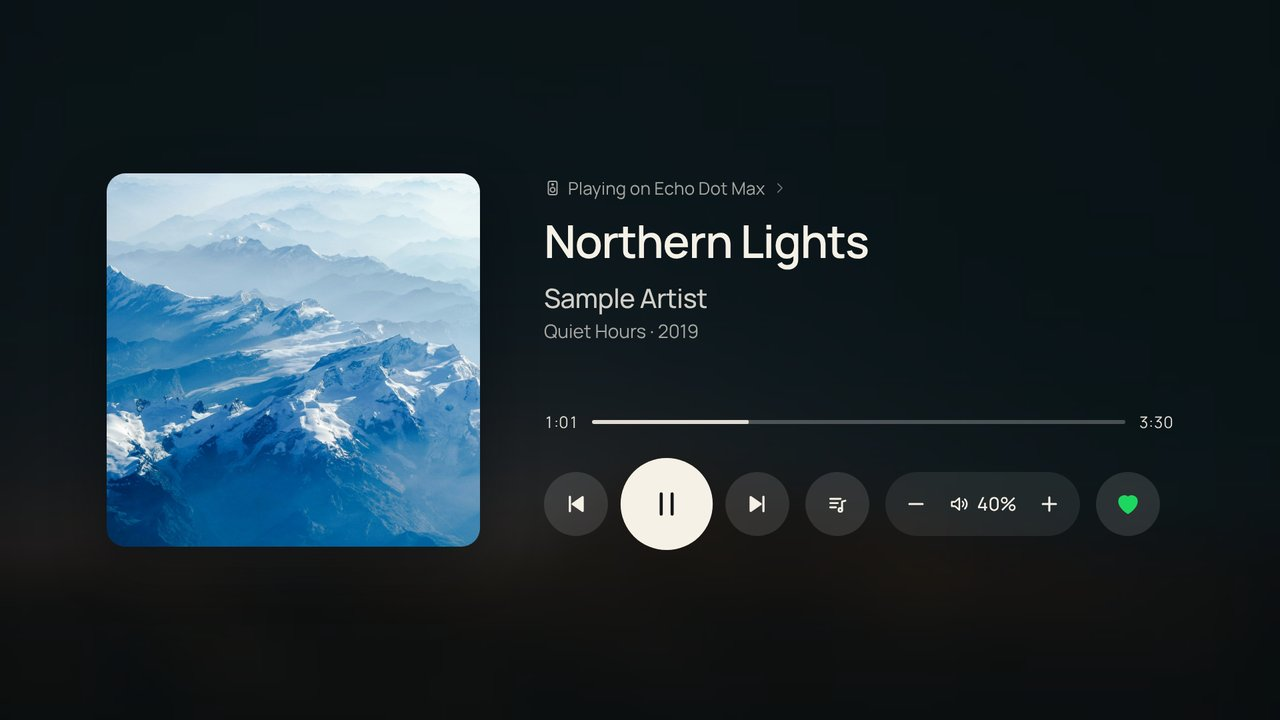
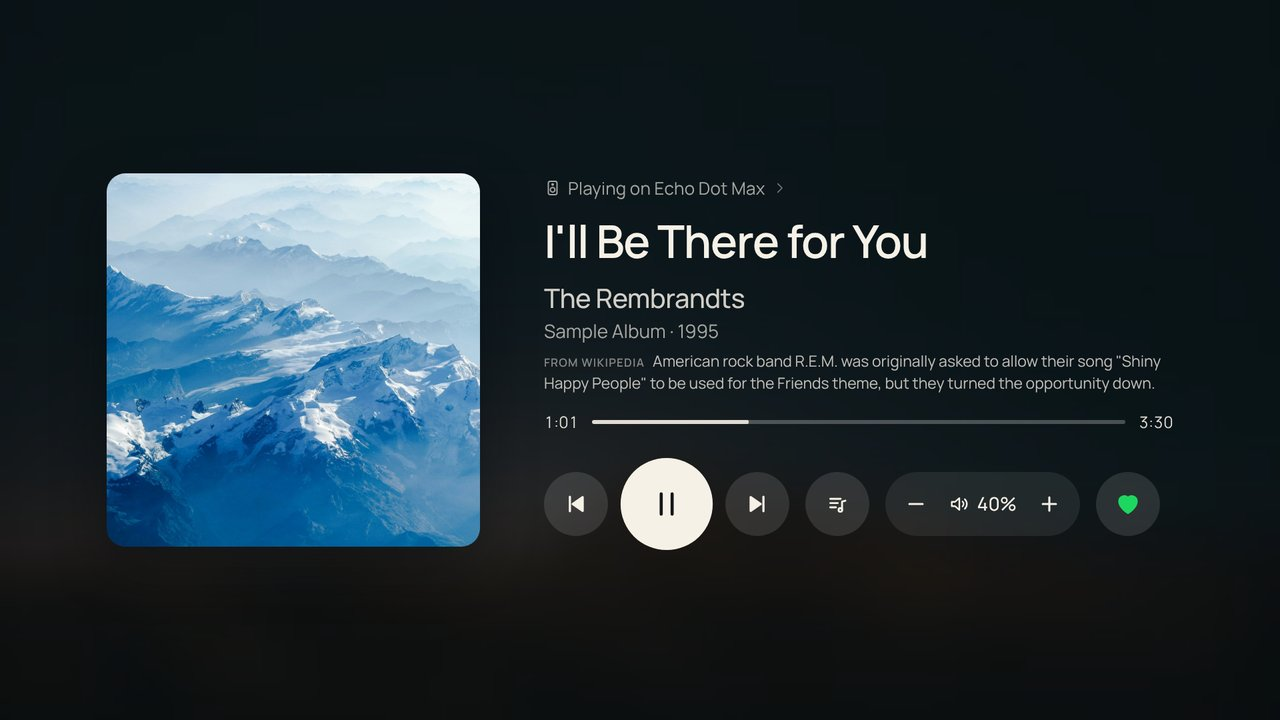
README: new screenshots for 0.50 (fun fact, Original and Metro Settings, Metro pivots)
Now playing shows a Wikipedia fact; Settings appears in both the Original
and the Metro look, with the Layout and Apps on Home pivot pages. The
README text covers the new Apps on Home, the Metro pivots and how Settings
and All apps open. All screenshots use sample data.

Claude-Session: https://claude.ai/code/session_01VGKSZqQFEEKRXry9Umxzct

Changed region(s): [[0.4062, 0.3972, 0.9062, 0.55], [0.4062, 0.3056, 0.75, 0.3972]]

diff --git a/README.md b/README.md
@@ -12,17 +12,23 @@ This repo uses [Nathan Clark's CleanFrame](https://github.com/nthnclrk/CleanFram
 
 **Use it at your own risk.** Setup scripts, certificates and TV notes here match my machine and firmware. Fork again, start with the browser preview, and adapt before you install on your own hardware. Native Home/startup changes need particular care; the setup guide covers the risks and recovery steps.
 
-| Now playing (Spotify) | Lyrics |
+| Now playing (Spotify), with a fun fact | Lyrics |
 | --- | --- |
-| ![Now playing: a large cover, the song, artist, album and year, the progress bar, previous, play/pause and next, Lyrics, the volume pill at 40 % and a green heart for a song in Liked Songs](docs/images/frame-home-nowplaying.jpg) | ![Lyrics: the cover, song and buttons move to a narrow column on the left in two centred rows, and the synced lyrics fill the right with the current line bright](docs/images/frame-home-lyrics.jpg) |
+| ![Now playing: a large cover, the song, artist, album and year, a short fact about the song marked From Wikipedia, the progress bar, previous, play/pause and next, Lyrics, the volume pill at 40 % and a green heart for a song in Liked Songs](docs/images/frame-home-nowplaying.jpg) | ![Lyrics: the cover, song and buttons move to a narrow column on the left in two centred rows, and the synced lyrics fill the right with the current line bright](docs/images/frame-home-lyrics.jpg) |
 
-| Settings | Settings → Layout | Dock layout |
+| Settings — Original look | Settings — Metro look |
+| --- | --- |
+| ![Settings in the Original look: three framed columns, Personalization, Home and time, and System, each with three cards](docs/images/frame-home-settings.jpg) | ![Settings in the Metro look: lower-case group titles over live tiles of different sizes, a large Background tile with the wallpaper, Apps on Home with the app icons, the time, the language code and a Connections tile listing Alexa, Spotify and the calendars](docs/images/frame-home-settings-metro.jpg) |
+
+| Metro pivot: Layout | Metro pivot: Apps on Home | Dock layout |
 | --- | --- | --- |
-| ![Settings: three equal columns, Personalization, Home and time, and System, each with three cards](docs/images/frame-home-settings.jpg) | ![Layout settings: Bottom bar (layout, app display, icon style) and Top bar (style, Wi-Fi/All apps/Settings, Alexa switches) as dropdown rows, with a live preview of Home on the right](docs/images/frame-home-layout.jpg) | ![Dock layout: one glass shelf with colour icons and names, the corner clock with weather and indoor temperature, the date, a glass panel with name days and today's calendar event, and the top-row cards](docs/images/frame-home-dock.jpg) |
+| ![Metro pivot page: a steady ‹ Settings header over the pivot titles background, layout and style, the Bottom bar and Top bar dropdown rows on the left and a live preview of Home on the right](docs/images/frame-home-metro-layout.jpg) | ![Apps on Home in the Metro pivot: the apps on Home in a numbered row like the dock, a line where Home starts to scroll, and the installed apps that are not on Home listed below to add](docs/images/frame-home-apps-on-home.jpg) | ![Dock layout: one glass shelf with colour icons and names, the corner clock with weather and indoor temperature, the date, a glass panel with name days and today's calendar event, and the top-row cards](docs/images/frame-home-dock.jpg) |
+
+Screenshots come from the browser preview with sample data (sample songs, apps, devices and calendar events). The fun fact is a sentence from the song's Wikipedia article (CC BY-SA); the cover is one of the bundled wallpapers.
 
 ## What it does
 
-- **Home row.** Xbox and Nintendo Switch on HDMI, Nuvio, YouTube, Spotify, HBO Max, SmartThings and Internet by default. Choose and reorder up to nine apps, or add any installed app.
+- **Home row.** Xbox and Nintendo Switch on HDMI, Nuvio, YouTube, Spotify, HBO Max, SmartThings and Internet by default. Choose and reorder up to nine apps, or add any installed app. In Settings → **Apps on Home** the apps sit in a row like the dock (a line marks where Home starts to scroll); OK on one offers Move or Remove from Home, and the installed apps that are not on Home are listed below to add. Every change is saved at once, so there is no Undo or Done: Back leaves.
 - **Layouts.** Dock (one glass shelf), Tiles (a separate glass tile per app) or Modern dock (the top Dock bar mirrored at the bottom edge: low tiles on a glass band that fades upwards; with icons and names, the name sits beside the icon in flat tiles of one width), with icons, names or both, and colour or minimal (white) icons. When the apps do not fit, the Dock and Tiles page through whole tiles with arrows at the sides. Settings → Layout has two groups: the bottom bar (the apps) and the top bar. The top bar is either **Separate widgets** (glass cards: the song, each Alexa switch, and one card for Wi‑Fi, All apps and Settings) or **Dock**: one thin glass bar across the top edge of the screen with the song at the left edge and the switches and controls at the right edge (the Alexa switches set apart from Wi‑Fi QR, All apps and Settings), all as tall as the song card. Controls and switches show icons, names or both; with icons only, no name appears while moving.
 - **Clock, date and weather.** 24- or 12-hour clock, in the corner, centred or large, with optional seconds, in four styles: Classic (the chosen font), Thin, LED (seven segments) or Flip (split cards that fold). An optional date ("15 November", or "November 15" in Hungarian), optionally with Hungarian public holidays, Hungarian name days and today's events from your Google or Outlook calendar (see below). Weather from [Open-Meteo](https://open-meteo.com): an icon, the temperature and today's high and low.
 - **Backgrounds.** A photograph or dark. Seventeen bundled wallpapers with pre-rendered glass, optional rotation, and **Your picture**: send any photo or short looping video from your phone and it becomes the background (see below).
@@ -32,7 +38,8 @@ This repo uses [Nathan Clark's CleanFrame](https://github.com/nthnclrk/CleanFram
 - **Remote buttons.** The red, green, yellow and blue buttons, CH +, CH − and Guide can each switch a light or group, control Spotify or open any app. A row of chips above the apps shows what they do.
 - **Back to Home.** Coming back to Frame Home from another app always lands on the Home screen with the apps focused. While Frame Home is already open, the TV does not tell the app that its Home button was pressed (checked with the remote test), so that button cannot close open panels; a remote button set to **Home screen** can.
 - **Settings.** Three equal columns of three equal cards (Personalization: Background, Layout, Style; Home and time: Apps on Home, Wi‑Fi QR, Date and time; System: Language, Connections, System), made for arrow keys; inside, each page is a set of cards with one row per setting (OK opens a short list of its choices over the rows below). Background, Layout, Style and Date and time show their choices beside a live Home preview. The last card, **System**, holds backup and restore (see below) and opens Samsung's Home screen.
-- **Metro look for Settings** (Settings → Style → Settings look: Original or Metro). Inspired by Microsoft's Metro design, in Frame Home's own glass: a thin lowercase title, live tiles in three sizes with soft pastel tints (Background shows the picture, Date and time the time, Language its code, Apps on Home the first app icons, Connections what is connected), and the arrows move to the nearest tile. Pages of one group form a pivot: the page name with its neighbours dimmed beside it, and Left and Right move between Background, Layout and Style (or Wi‑Fi QR and Date and time, or System and Connections), sliding as they go. Each row shows its name and, under it, its current value.
+- **Metro look for Settings** (Settings → Style → Settings look: Original or Metro). Inspired by Microsoft's Metro design, in Frame Home's own glass: a thin lowercase title, live tiles in three sizes with soft pastel tints (Background shows the picture, Date and time the time, Language its code, Apps on Home the first app icons, Connections what is connected), and the arrows move to the nearest tile. Pages of one group form a pivot: the page name with its neighbours dimmed beside it, and Left and Right move between Background, Layout and Style (or Apps on Home, Wi‑Fi QR and Date and time; System and Connections; and under Connections, Alexa, Spotify and Calendar). The pivot header stays in place while the underline slides to the new page and its rows ease in. Each row shows its name and, under it, its current value.
+- **Opening Settings and All apps** works like the Wi‑Fi QR card: the blurred backdrop first covers Home, then the page's content fades in. Only opacity changes, so the TV keeps up.
 - **English or Hungarian** interface, switchable at any time.
 
 The glass and blur are rendered ahead of time. The TV loads the finished images and uses transforms and opacity for focus feedback; nothing is blurred live while you navigate.
